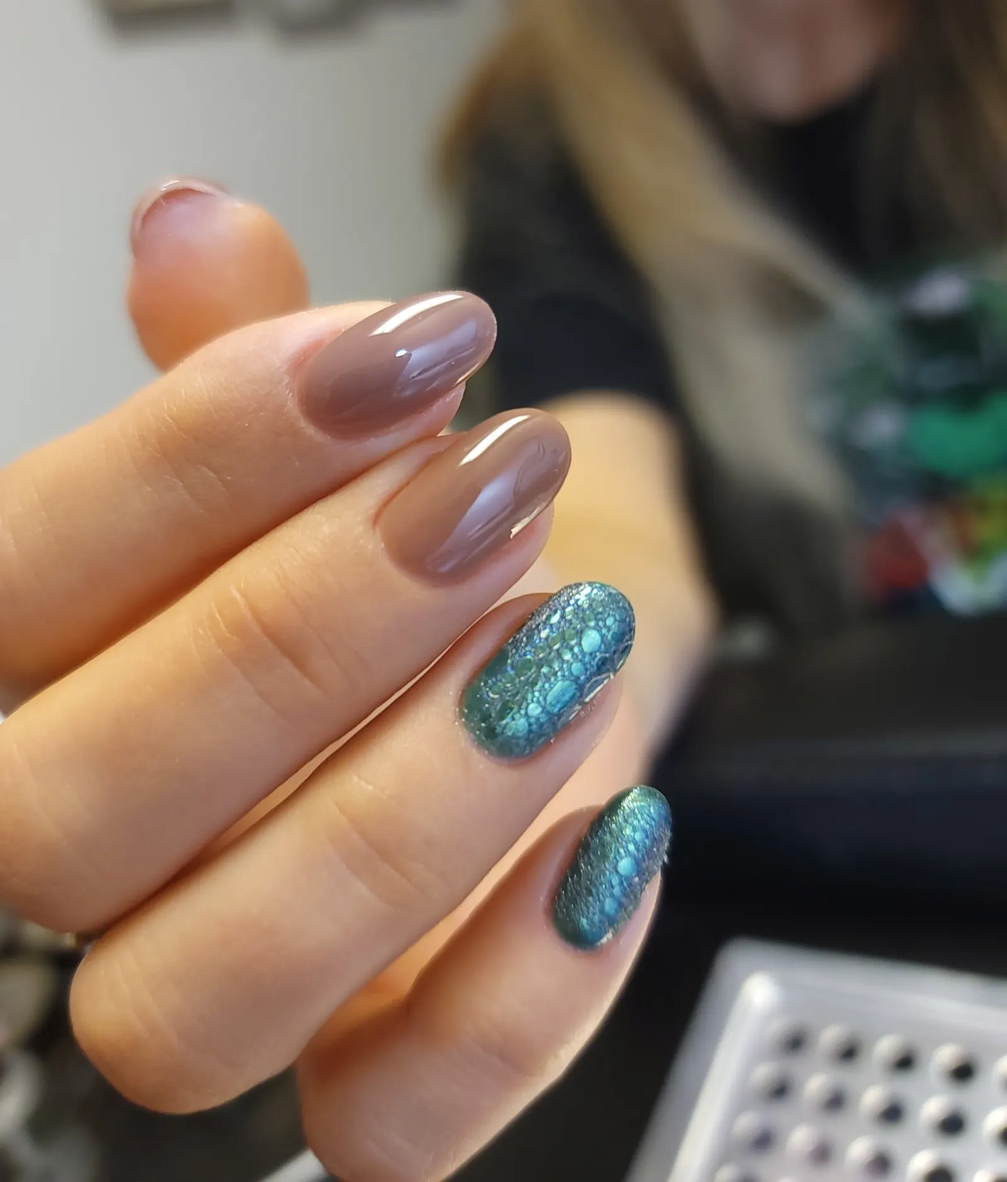
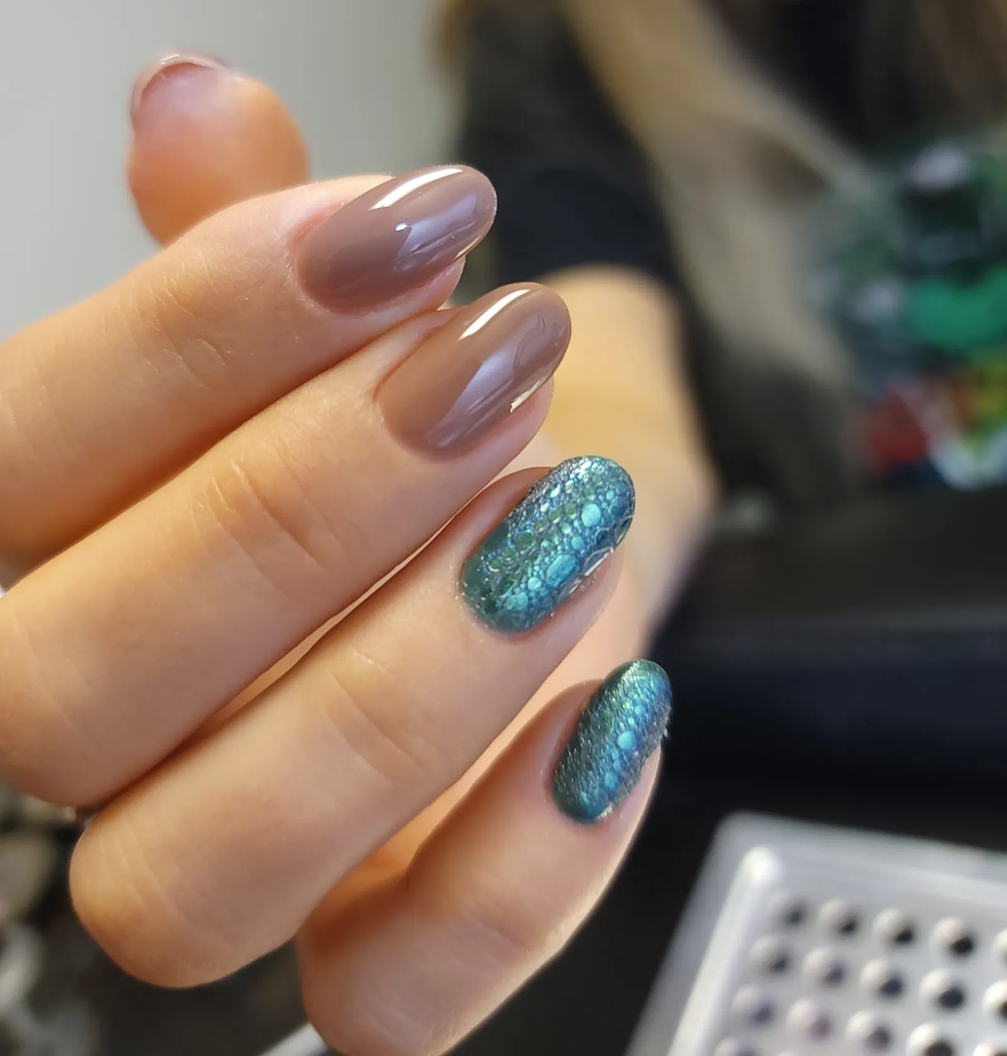
fix(preview): walk-in audit pass (Edit's, Relax Day, Paradise)

diff --git a/public/preview/edits-nails/index.html b/public/preview/edits-nails/index.html
@@ -260,7 +260,7 @@ footer{background:var(--porcelain);color:var(--muted);font-size:14px;text-align:
 <div class="pv" role="note">This is a private preview Saltwater Studio built for Edit's Nails LLC. It isn't public and Google can't see it. Questions go to Travis, a real person in Destin: <a class="nw" href="tel:+18502185855">(850) 218-5855</a></div>
 
 <header class="cover" id="top">
-  <div class="cover-img"><img id="heroImg" src="/preview/edits-nails/img/hero-800.webp" srcset="/preview/edits-nails/img/hero-800.webp 800w, /preview/edits-nails/img/hero-1600.webp 1080w" sizes="(min-width:900px) 46vw, 100vw" width="1080" height="1920" alt="Close-up of glossy pink almond nails, two of them with fine dark line art" fetchpriority="high"></div>
+  <div class="cover-img"><img id="heroImg" src="/preview/edits-nails/img/hero-800.webp" srcset="/preview/edits-nails/img/hero-800.webp 800w, /preview/edits-nails/img/hero-1600.webp 1080w" sizes="(min-width:900px) 46vw, 100vw" width="1080" height="1920" alt="Close-up of glossy pink almond nails, a few of them with fine dark line art" fetchpriority="high"></div>
   <div class="mast">
     <div class="mrow"><span>Nail salon</span><span>Harbor Blvd, Destin</span></div>
     <h1 aria-label="Edit's Nails, Destin"><span class="word" id="word" aria-hidden="true">Edit’s</span><span class="sub" aria-hidden="true"><span>Nails</span><b>Palmetto Plaza</b></span></h1>
@@ -275,7 +275,7 @@ footer{background:var(--porcelain);color:var(--muted);font-size:14px;text-align:
     <a class="addr" href="https://www.google.com/maps/dir/?api=1&amp;destination=Edit%27s%20Nails%20LLC%2C%20127%20Harbor%20Blvd%20%2312A%2C%20Destin%2C%20FL%2032541"><u>127 Harbor Blvd #12A</u> · Palmetto Plaza</a>
     <div class="ctas">
       <a class="btn b-pink" href="tel:+18505987560"><svg viewBox="0 0 24 24" fill="currentColor" aria-hidden="true"><path d="M6.6 10.8a15.1 15.1 0 0 0 6.6 6.6l2.2-2.2c.3-.3.7-.4 1-.2 1.1.4 2.3.6 3.6.6.6 0 1 .4 1 1V20c0 .6-.4 1-1 1A17 17 0 0 1 3 4c0-.6.4-1 1-1h3.5c.6 0 1 .4 1 1 0 1.3.2 2.5.6 3.6.1.3 0 .7-.2 1z"/></svg>Call <span class="nw">(850) 598-7560</span></a>
-      <a class="btn b-ghost" id="heroSms" href="sms:+18505987560&amp;body=Hi%20Edit%2C%20I%27d%20like%20to%20book%20a%20set.%20What%20do%20you%20have%20open%3F">Text</a>
+      <a class="btn b-ghost" id="heroSms" href="sms:+18505987560&amp;body=Hi%20Edit%2C%20I%27d%20like%20to%20book%20an%20appointment.%20What%20do%20you%20have%20open%3F">Text</a>
     </div>
   </div>
 </header>
@@ -292,11 +292,11 @@ footer{background:var(--porcelain);color:var(--muted);font-size:14px;text-align:
     <div class="st-top">
       <p class="eyebrow">The finish</p>
       <h2>One nail, <em>three finishes.</em></h2>
-      <p>Scroll to change the finish. Drag to turn it. The colors are sampled from Edit's own photos.</p>
+      <p>Gloss, shimmer and glitter, in colors sampled from Edit's own photos. Scroll to change the finish, drag to turn it.</p>
     </div>
     <div class="st-bot">
       <div class="fin" role="group" aria-label="Finish">
-        <button type="button" data-f="0" class="on">Cream</button><button type="button" data-f="1">Chrome</button><button type="button" data-f="2">Cat-eye</button>
+        <button type="button" data-f="0" class="on">Gloss</button><button type="button" data-f="1">Shimmer</button><button type="button" data-f="2">Glitter</button>
       </div>
       <div class="track"><i id="trk"></i></div>
       <div class="sw" role="group" aria-label="Color, from Edit's photos">
@@ -321,19 +321,19 @@ footer{background:var(--porcelain);color:var(--muted);font-size:14px;text-align:
       </div>
       <div class="tile rv"><p class="k">Open</p><h3>Mon–Fri</h3><p><span class="nw">8:30 AM–7 PM</span>. Closed weekends.</p></div>
       <div class="tile rv"><p class="k">Lasts</p><h3>3–4 weeks</h3><p>How long one client says her nails hold up.</p></div>
-      <div class="tile wide rv"><p class="k">Who you'll see</p><h3>Ask for Edit.</h3><p>Her name is on the door, in the reviews, and on the Florida filing for Edit's Nails LLC since 2019.</p></div>
+      <div class="tile wide rv"><p class="k">Who to ask for</p><h3>Ask for Edit.</h3><p>It's her name on the salon, in the reviews, and on the Florida filing for Edit's Nails LLC since 2019.</p></div>
       <div class="tile wide rv"><p class="k">What her reviews keep mentioning</p><div class="tags"><span>Quality products</span><span>Cleanliness</span><span>Manicures</span><span>Attention to detail</span></div></div>
     </div>
   </div>
 </section>
 
 <section class="sec" id="work" style="padding-bottom:64px">
-  <div class="wrap"><p class="eyebrow rv" style="color:var(--pinkd)">Her work</p><h2 class="rv">Straight from <em>her camera.</em></h2></div>
+  <div class="wrap"><p class="eyebrow rv" style="color:var(--pinkd)">Her work</p><h2 class="rv">Straight from <em>her photos.</em></h2></div>
   <div class="row" tabindex="0" aria-label="Photos of Edit's nail work">
     <figure class="card"><div class="ph"><img src="/preview/edits-nails/img/burgundy-800.webp" srcset="/preview/edits-nails/img/burgundy-800.webp 800w, /preview/edits-nails/img/burgundy-1600.webp 1600w" sizes="(min-width:900px) 340px, 74vw" width="1800" height="2400" loading="lazy" alt="Long almond nails in a deep burgundy gloss"></div><figcaption><b>Burgundy gloss</b>Long almond, one deep color.</figcaption></figure>
     <figure class="card"><div class="ph"><img src="/preview/edits-nails/img/swirl-800.webp" srcset="/preview/edits-nails/img/swirl-800.webp 800w, /preview/edits-nails/img/swirl-1600.webp 1600w" sizes="(min-width:900px) 340px, 74vw" width="1800" height="2400" loading="lazy" alt="Nude nails with brown and white swirl lines, hand resting over a metal table grate"></div><figcaption><b>Swirl lines</b>Brown and white over a nude base.</figcaption></figure>
-    <figure class="card"><div class="ph"><img src="/preview/edits-nails/img/glitter-800.webp" srcset="/preview/edits-nails/img/glitter-800.webp 800w, /preview/edits-nails/img/glitter-1600.webp 1600w" sizes="(min-width:900px) 340px, 74vw" width="1800" height="2112" loading="lazy" alt="Mauve gloss nails with two teal glitter accent nails"></div><figcaption><b>Teal glitter</b>Two accent nails beside mauve gloss.</figcaption></figure>
-    <figure class="card"><div class="ph"><img src="/preview/edits-nails/img/shimmer-800.webp" srcset="/preview/edits-nails/img/shimmer-800.webp 800w, /preview/edits-nails/img/shimmer-1600.webp 1600w" sizes="(min-width:900px) 340px, 74vw" width="2400" height="2400" loading="lazy" alt="Almond nails with a sheer nude-to-lavender shimmer fade"></div><figcaption><b>Lavender shimmer</b>A sheer fade toward the tips.</figcaption></figure>
+    <figure class="card"><div class="ph"><img src="/preview/edits-nails/img/glitter-800.webp" srcset="/preview/edits-nails/img/glitter-800.webp 800w, /preview/edits-nails/img/glitter-1600.webp 1600w" sizes="(min-width:900px) 340px, 74vw" width="1800" height="1887" loading="lazy" alt="Mauve gloss nails with two sparkly, textured teal accent nails"></div><figcaption><b>Teal accents</b>Two sparkly teal nails beside mauve gloss.</figcaption></figure>
+    <figure class="card"><div class="ph"><img src="/preview/edits-nails/img/shimmer-800.webp" srcset="/preview/edits-nails/img/shimmer-800.webp 800w, /preview/edits-nails/img/shimmer-1600.webp 1600w" sizes="(min-width:900px) 340px, 74vw" width="2400" height="2400" loading="lazy" alt="Oval nails with a sheer nude-to-lavender shimmer fade"></div><figcaption><b>Lavender shimmer</b>A sheer fade toward the tips.</figcaption></figure>
     <figure class="card"><div class="ph"><img src="/preview/edits-nails/img/foil-800.webp" srcset="/preview/edits-nails/img/foil-800.webp 800w, /preview/edits-nails/img/foil-1600.webp 1600w" sizes="(min-width:900px) 340px, 74vw" width="1800" height="2400" loading="lazy" alt="Sheer nails with a green and gold design and thin gold lines"></div><figcaption><b>Green and gold</b>Design work with fine gold lines.</figcaption></figure>
   </div>
   <p class="hint">Swipe for more</p>
@@ -375,9 +375,9 @@ footer{background:var(--porcelain);color:var(--muted);font-size:14px;text-align:
 
 <section class="sec" id="book">
   <div class="wrap">
-    <p class="eyebrow rv" style="color:var(--pinkd)">Book a set</p>
+    <p class="eyebrow rv" style="color:var(--pinkd)">Book a visit</p>
     <h2 class="rv">Tell Edit <em>what you want.</em></h2>
-    <p class="rv" style="color:var(--muted);margin-top:12px;max-width:40ch">Tap your picks. We write the text, you hit send. She answers from the salon.</p>
+    <p class="rv" style="color:var(--muted);margin-top:12px;max-width:40ch">Tap your picks and the text writes itself. You hit send.</p>
     <form class="comp" id="comp" onsubmit="return false">
       <fieldset class="grp"><legend>Service</legend><div class="opts" data-g="svc"></div></fieldset>
       <fieldset class="grp" id="gShape"><legend>Shape</legend><div class="opts" data-g="shape"></div></fieldset>
@@ -469,10 +469,10 @@ $$('.rv').forEach(el=>io.observe(el));
 new IntersectionObserver(([e])=>$('#dock').classList.toggle('on',!e.isIntersecting),{threshold:0}).observe($('.ctas'));
 
 /* composer */
-const OPT={svc:[['mani','Manicure'],['pedi','Pedicure'],['both','Mani + pedi'],['art','Nail art set'],['grow','Grow out my nails']],
+const OPT={svc:[['mani','Manicure'],['pedi','Pedicure'],['both','Mani + pedi'],['art','Nail art / design'],['grow','Grow out my nails']],
  shape:[['almond','Almond'],['oval','Oval'],['round','Round'],['square','Square'],['any','Not sure']],
  len:[['short','Short'],['medium','Medium'],['long','Long']],
- fin:[['gloss','Glossy'],['chrome','Chrome'],['cat','Cat-eye'],['matte','Matte'],['pick','Edit picks']]};
+ fin:[['gloss','Glossy'],['matte','Matte'],['shimmer','Shimmer'],['glitter','Glitter accents'],['pick','Edit picks']]};
 const MON=['Jan','Feb','Mar','Apr','May','Jun','Jul','Aug','Sep','Oct','Nov','Dec'];
 (function days(){const n=now(),out=[];const base=Date.UTC(n.y,n.m-1,n.day);
  for(let i=0;out.length<4&&i<10;i++){const dt=new Date(base+i*864e5),d=dt.getUTCDay(),h=CFG.hours[d];if(!h)continue;if(i===0&&n.h>=h[1]-1)continue;
@@ -481,7 +481,7 @@ const MON=['Jan','Feb','Mar','Apr','May','Jun','Jul','Aug','Sep','Oct','Nov','De
 const sel={svc:'mani',shape:'almond',len:'medium',fin:'gloss',day:OPT.day[0][0]};
 $$('.opts').forEach(box=>{const g=box.dataset.g;box.innerHTML=OPT[g].map(([v,l],i)=>`<input type="radio" name="${g}" id="${g}${i}" value="${v}"${sel[g]===v?' checked':''}><label for="${g}${i}">${l}</label>`).join('');
  box.addEventListener('change',e=>{sel[g]=e.target.value;compose()})});
-const FINC={gloss:['#F0B9D7','#D185B2','#8E4870'],chrome:['#F4EEF2','#B69CAC','#5E4A57'],cat:['#173B42','#9FE3E6','#1D4D55'],matte:['#8A1A33','#7E132A','#6A0F23'],pick:['#F0B9D7','#D185B2','#8E4870']};
+const FINC={gloss:['#F0B9D7','#D185B2','#8E4870'],shimmer:['#F3E3EE','#B69CAC','#7D6A86'],glitter:['#9FD3D8','#65A1AA','#2C5E66'],matte:['#8A1A33','#7E132A','#6A0F23'],pick:['#F0B9D7','#D185B2','#8E4870']};
 function nailPath(shape,len){const L={short:62,medium:86,long:112}[len],x0=12,x1=68,w=56,cx=40,yb=168,yt=yb-L;let ys,tip;
  if(shape==='square'){ys=yt+7;tip=`Q${x1} ${yt} ${x1-7} ${yt} L${x0+7} ${yt} Q${x0} ${yt} ${x0} ${ys}`}
  else if(shape==='round'){ys=yt+w/2;tip=`A${w/2} ${w/2} 0 0 0 ${x0} ${ys}`}
@@ -489,13 +489,13 @@ function nailPath(shape,len){const L={short:62,medium:86,long:112}[len],x0=12,x1
  else{ys=yt+L*.5;tip=`C${x1} ${yt+L*.2} ${cx+w*.14} ${yt} ${cx} ${yt} C${cx-w*.14} ${yt} ${x0} ${yt+L*.2} ${x0} ${ys}`}
  return{d:`M${x0} ${yb-16} Q${x0} ${yb+4} ${cx} ${yb+4} Q${x1} ${yb+4} ${x1} ${yb-16} L${x1} ${ys} ${tip} Z`,h:`M26 ${yb-14} Q24 ${yt+L*.45} 32 ${yt+12}`}}
 function compose(){const nails=!['pedi'].includes(sel.svc);['#gShape','#gLen','#gFin'].forEach(s=>$(s).classList.toggle('off',!nails));
- const svc={mani:'book a manicure',pedi:'book a pedicure',both:'book a manicure and pedicure',art:'book a nail art set',grow:'start growing out my natural nails with you'}[sel.svc];
+ const svc={mani:'book a manicure',pedi:'book a pedicure',both:'book a manicure and pedicure',art:'book a manicure with nail art',grow:'start growing out my natural nails with you'}[sel.svc];
  let bits=[];if(nails){if(sel.shape!=='any')bits.push(sel.shape+' shape');bits.push(sel.len+' length');
-  bits.push({gloss:'a glossy finish',chrome:'a chrome finish',cat:'a cat-eye finish',matte:'a matte finish',pick:'and you pick the finish'}[sel.fin])}
+  bits.push({gloss:'a glossy finish',shimmer:'a shimmer finish',glitter:'glitter accents',matte:'a matte finish',pick:'and I\'ll let you pick the finish'}[sel.fin])}
  let m=`Hi Edit, I'd like to ${svc}`+(bits.length?(sel.fin==='pick'?': '+bits.slice(0,-1).join(', ')+(bits.length>1?', ':'')+bits[bits.length-1]:': '+bits.join(', ')):'')+'. ';
- if(sel.day==='any')m+='What do you have open this week?';else if(sel.day==='today')m+='Do you have anything open today?';else m+=`Do you have time ${sel.day}?`;
+ if(sel.day==='any')m+='What do you have open in the next few days?';else if(sel.day==='today')m+='Do you have anything open today?';else m+=`Do you have time ${sel.day}?`;
  m+=' Thank you!';$('#msg').textContent=m;$('#smsGo').href='sms:'+CFG.sms+'&body='+encodeURIComponent(m);
- const p=nailPath(nails?sel.shape==='any'?'oval':sel.shape:'round',nails?sel.len:'short');$('#np').setAttribute('d',p.d);$('#nh').setAttribute('d',sel.fin==='matte'&&nails?'':p.h);$('#nh').setAttribute('opacity',sel.fin==='chrome'?.85:.5);
+ const p=nailPath(nails?sel.shape==='any'?'oval':sel.shape:'round',nails?sel.len:'short');$('#np').setAttribute('d',p.d);$('#nh').setAttribute('d',sel.fin==='matte'&&nails?'':p.h);$('#nh').setAttribute('opacity',sel.fin==='shimmer'?.85:.5);
  const c=FINC[nails?sel.fin:'gloss'];['#ng1','#ng2','#ng3'].forEach((s,i)=>$(s).setAttribute('stop-color',c[i]));
  window.dispatchEvent(new CustomEvent('finpick',{detail:sel.fin}))}
 compose();
@@ -506,7 +506,7 @@ compose();
 const $=s=>document.querySelector(s),$$=s=>[...document.querySelectorAll(s)];
 const root=document.documentElement,stage=$('#stage'),sec=$('#finish'),canvas=$('#gl');
 const COLORS=['#D185B2','#7E132A','#B69CAC','#65A1AA'];
-const SRC=[['hero-800.webp','line-art set',1422],['burgundy-800.webp','burgundy set',1067],['shimmer-800.webp','shimmer set',800],['glitter-800.webp','glitter set',939]];
+const SRC=[['hero-800.webp','line-art set',1422],['burgundy-800.webp','burgundy set',1067],['shimmer-800.webp','shimmer set',800],['glitter-800.webp','glitter set',839]];
 const STAGEC=[0,2,3];
 let F=0,fTarget=0,pick=-1;
 const RM=matchMedia('(prefers-reduced-motion: reduce)').matches;
@@ -515,7 +515,7 @@ function setUI(f){const k=Math.round(f);$$('.fin button').forEach((b,i)=>b.class
  const ci=pick>=0?pick:STAGEC[k];$$('.sw button').forEach((b,i)=>b.classList.toggle('on',i===ci));
  const s=SRC[ci],im=$('#srcImg');if(!im.src.endsWith(s[0])){im.src='/preview/edits-nails/img/'+s[0];im.height=s[2]}$('#srcTxt').innerHTML='Sampled from<br>the '+s[1];}
 function poster(f){const ci=pick>=0?pick:STAGEC[Math.round(f)];const base=COLORS[ci];const k=Math.round(f);
- const g=k===0?['#fff8',base,base]:k===1?['#F7F2F5',base,'#3B2C35']:['#0E2A30',base,'#0E2A30'];
+ const g=k===0?['#fff8',base,base]:k===1?['#F3E6F0',base,'#7D6A86']:['#9FD3D8',base,'#2C5E66'];
  $('#pg1').setAttribute('stop-color',g[0]);$('#pg2').setAttribute('stop-color',g[1]);$('#pg3').setAttribute('stop-color',g[2]);}
 function progress(){if(RM)return fTarget;const r=sec.getBoundingClientRect(),span=r.height-innerHeight;return Math.max(0,Math.min(1,-r.top/span))*2}
 $$('.fin button').forEach(b=>b.addEventListener('click',()=>{const f=+b.dataset.f;
@@ -538,7 +538,7 @@ async function init(){
  renderer.toneMapping=THREE.ACESFilmicToneMapping;renderer.toneMappingExposure=1.05;renderer.outputColorSpace=THREE.SRGBColorSpace;
  const scene=new THREE.Scene(),cam=new THREE.PerspectiveCamera(28,1,.1,50);cam.position.set(0,0,6.4);
 
- /* studio environment for chrome reflections */
+ /* studio environment for reflections */
  const env=new THREE.Scene();
  const sky=new THREE.Mesh(new THREE.SphereGeometry(10,32,16),new THREE.ShaderMaterial({side:THREE.BackSide,depthWrite:false,
   vertexShader:'varying vec3 p;void main(){p=normalize(position);gl_Position=projectionMatrix*modelViewMatrix*vec4(position,1.);}',
@@ -564,8 +564,8 @@ async function init(){
   sh.fragmentShader=sh.fragmentShader.replace('#include <common>','#include <common>\nvarying vec3 vL;uniform float uCat,uBand,uTime;uniform vec3 uBandC;float hs(vec2 p){return fract(sin(dot(p,vec2(127.1,311.7)))*43758.5453);}')
    .replace('#include <emissivemap_fragment>',`#include <emissivemap_fragment>
    float bx=vL.x-uBand-.18*(vL.y);float band=exp(-pow(bx/.05,2.))+.18*exp(-pow(bx/.13,2.));
-   vec2 g=floor(vL.xy*190.);float sp=step(.975,hs(g))*(.5+.5*sin(uTime*3.+hs(g+3.)*40.));
-   totalEmissiveRadiance+=uCat*(uBandC*band*2.1+vec3(1.,.95,1.)*sp*.9*(.25+band));`)};
+   vec2 g=floor(vL.xy*190.);float sp=step(.93,hs(g))*(.5+.5*sin(uTime*3.+hs(g+3.)*40.));
+   totalEmissiveRadiance+=uCat*(uBandC*band*.3+vec3(1.,.97,1.)*sp*1.1*(.45+band));`)};
  const nail=new THREE.Mesh(geo,mat);
  const grp=new THREE.Group();grp.add(nail);scene.add(grp);
  const dl=new THREE.DirectionalLight(0xffffff,1.2);dl.position.set(2,3,4);scene.add(dl);
@@ -581,7 +581,7 @@ async function init(){
  addEventListener('pointerup',()=>{drag=false;canvas.style.cursor='grab'});addEventListener('pointercancel',()=>{drag=false});
 
  const cA=new THREE.Color(),cB=new THREE.Color(),cur=new THREE.Color(COLORS[0]),tmp=new THREE.Color();
- const SC=[new THREE.Color(COLORS[0]),new THREE.Color(COLORS[2]),new THREE.Color('#0E3238')];
+ const SC=[new THREE.Color(COLORS[0]),new THREE.Color(COLORS[2]),new THREE.Color('#3E7F88')];
  let run=true,vis=true,last=performance.now(),slow=0,t=0;
  new IntersectionObserver(([e])=>{vis=e.isIntersecting;if(vis&&!raf)loop()},{threshold:0}).observe(stage);
  document.addEventListener('visibilitychange',()=>{run=!document.hidden;if(run&&!raf)loop()});
@@ -595,7 +595,7 @@ async function init(){
   if(pick>=0){cA.set(COLORS[pick]);if(b>0){tmp.copy(cA).multiplyScalar(.45);cA.lerp(tmp,b)}}
   else{cA.copy(SC[0]).lerp(SC[1],a);if(b>0)cA.lerp(SC[2],b)}
   cur.lerp(cA,Math.min(1,dt*5));mat.color.copy(cur);
-  mat.metalness=a*(1-b*.7);mat.roughness=.3-.2*a+.1*b;mat.iridescence=.35*a*(1-b);mat.envMapIntensity=1.25-1.0*b;mat.clearcoat=1-.55*b;
+  mat.metalness=.3*a*(1-b*.5);mat.roughness=.3-.1*a+.05*b;mat.iridescence=.7*a*(1-b*.6);mat.envMapIntensity=1.25-.5*b;mat.clearcoat=1-.2*b;
   U.uCat.value=b;U.uTime.value=t;
   if(!drag){vel*=.94;rotY+=vel;rotY+=(-.3+Math.sin(t*.5)*.4-rotY)*.012}
   U.uBand.value=Math.sin(t*.9+bandT)*.38;

diff --git a/public/preview/paradise-nail-spa/index.html b/public/preview/paradise-nail-spa/index.html
@@ -51,7 +51,7 @@ html.ready #loader{opacity:0;visibility:hidden}
 .hero{position:relative;padding:14px 0 30px;overflow:clip}
 .hero::before{content:"";position:absolute;width:150vw;height:120vw;max-width:1400px;max-height:1100px;left:50%;top:-30vw;translate:-50% 0;background:radial-gradient(closest-side,rgba(255,106,85,.22),transparent 70%),radial-gradient(closest-side at 70% 80%,rgba(15,158,155,.18),transparent 70%);pointer-events:none}
 .hgrid{position:relative;display:grid;gap:16px}
-.arch{position:relative;border-radius:999px 999px var(--r) var(--r);overflow:hidden;height:clamp(280px,40svh,400px);background:var(--plum);box-shadow:0 30px 60px -30px rgba(34,21,46,.55)}
+.arch{position:relative;border-radius:999px 999px var(--r) var(--r);overflow:hidden;height:clamp(260px,36svh,380px);background:var(--plum);box-shadow:0 30px 60px -30px rgba(34,21,46,.55)}
 .arch img{width:100%;height:100%;object-fit:cover;object-position:50% 62%;transform:scale(1.08);transition:transform 1.6s var(--ease)}
 html.ready .arch img{transform:none}
 .arch::after{content:"";position:absolute;inset:0;background:linear-gradient(180deg,transparent 40%,rgba(34,21,46,.25) 62%,rgba(34,21,46,.82) 100%)}
@@ -153,7 +153,7 @@ html.ready .mega .ch{transform:none}
 .q{margin:22px 0 0}
 .q b{display:block;font:800 .75rem/1 var(--body);letter-spacing:.16em;text-transform:uppercase;color:#c9b8c8;margin-bottom:10px}
 .opts{display:flex;flex-wrap:wrap;gap:8px}
-.opt{min-height:44px;padding:9px 15px;border-radius:999px;border:1.5px solid rgba(251,243,234,.3);background:transparent;color:var(--sand);font:700 .95rem/1.1 var(--body);cursor:pointer;transition:background .2s,border-color .2s,color .2s}
+.opt{-webkit-tap-highlight-color:transparent;-webkit-user-select:none;user-select:none;min-height:44px;padding:9px 15px;border-radius:999px;border:1.5px solid rgba(251,243,234,.3);background:transparent;color:var(--sand);font:700 .95rem/1.1 var(--body);cursor:pointer;transition:background .2s,border-color .2s,color .2s}
 .opt[aria-pressed=true]{background:var(--sand);color:var(--ink);border-color:var(--sand)}
 .script{margin:26px 0 0;padding:20px;border-radius:20px;background:rgba(251,243,234,.07);border:1px solid rgba(251,243,234,.16)}
 .script small{display:block;font:800 .72rem/1 var(--body);letter-spacing:.16em;text-transform:uppercase;color:#7fe3dc;margin-bottom:10px}
@@ -271,7 +271,7 @@ footer{padding:26px 16px calc(110px + env(safe-area-inset-bottom));text-align:ce
     <p class="lead rv" style="margin-top:14px">&ldquo;A clean, friendly and relaxing nail salon experience,&rdquo; in one Google reviewer&rsquo;s words.</p>
     <div class="bento">
       <div class="tile t-rate rv"><div><span class="big">4.8</span><p>average across 407 Google reviews</p></div><span class="stars" aria-label="4.8 out of 5 stars">★★★★★<i style="width:96%">★★★★★</i></span></div>
-      <div class="tile t-photo rv"><img src="/preview/paradise-nail-spa/img/relax-800.webp" srcset="/preview/paradise-nail-spa/img/relax-800.webp 800w, /preview/paradise-nail-spa/img/relax-1600.webp 1600w" sizes="(max-width: 760px) 46vw, 260px" width="800" height="1067" loading="lazy" alt="Pink neon sign reading Time to Relax on a green leaf wall, with a hand showing pink nails below it"></div>
+      <div class="tile t-photo rv"><img src="/preview/paradise-nail-spa/img/relax-800.webp" srcset="/preview/paradise-nail-spa/img/relax-800.webp 800w, /preview/paradise-nail-spa/img/relax-1600.webp 1600w" sizes="(max-width: 760px) 46vw, 260px" width="800" height="1067" loading="lazy" alt="Pink neon sign reading Time to Relax on a green leaf wall, with two hands showing pink nails below it"></div>
       <div class="tile t-friend rv"><span class="big">&ldquo;friendly owners&rdquo;</span><p>a review topic Google pulls from 9 reviews</p></div>
       <div class="tile t-coral rv"><span class="big">7</span><p>days a week. Sundays 11 to 5.</p></div>
       <div class="tile t-fam rv"><q>Really enjoyed the atmosphere and the very kind family that took care of me.</q><p>Google review</p></div>
@@ -285,14 +285,14 @@ footer{padding:26px 16px calc(110px + env(safe-area-inset-bottom));text-align:ce
     <h2 id="svcH" class="rv">Pedicures first.<br>Then the fun part.</h2>
     <div class="svcs">
       <article class="svc rv"><div class="ic"><svg width="46" height="46" viewBox="0 0 48 48" fill="none" stroke="#6d2443" stroke-width="2.4" stroke-linecap="round" aria-hidden="true"><path d="M8 30c6 6 26 6 32 0"/><path d="M6 30h36"/><path d="M14 20c2-3 2-6 0-9M24 20c2-3 2-6 0-9M34 20c2-3 2-6 0-9"/></svg></div><div><h3>Pedicures</h3><p>Deluxe or tropical. Reviews of both mention the massage.</p></div></article>
-      <article class="svc rv"><img src="/preview/paradise-nail-spa/img/pink-800.webp" width="800" height="1067" loading="lazy" alt="Hot pink almond-shaped nails resting on white fur"><div><h3>Manicures</h3><p>A classic mani or builder gel. One reviewer called their builder gel manicure one of the best they&rsquo;ve gotten.</p></div></article>
-      <article class="svc rv"><img src="/preview/paradise-nail-spa/img/dots-800.webp" width="800" height="746" loading="lazy" alt="Pink nails with red polka-dot tips"><div><h3>Nail art</h3><p>Polka-dot tips, stars and stripes, a clean solid hot pink.</p></div></article>
-      <article class="svc rv"><div class="ic" style="background:linear-gradient(160deg,#c9f1ec,#5fcfc8)"><svg width="46" height="46" viewBox="0 0 48 48" fill="none" stroke="#07454f" stroke-width="2.4" aria-hidden="true"><circle cx="16" cy="18" r="6"/><circle cx="32" cy="18" r="6"/><circle cx="24" cy="31" r="6"/></svg></div><div><h3>Help picking the color</h3><p>One guest came in after an exact peachy shade and got help finding it. Ask for a hand choosing.</p></div></article>
+      <article class="svc rv"><img src="/preview/paradise-nail-spa/img/pink-800.webp" width="800" height="1067" loading="lazy" alt="Hot pink almond-shaped nails resting on white fur"><div><h3>Manicures</h3><p>A classic mani or builder gel. From a Google review: &ldquo;My builder gel manicure is one of the best I&rsquo;ve ever gotten.&rdquo;</p></div></article>
+      <article class="svc rv"><img src="/preview/paradise-nail-spa/img/dots-800.webp" width="800" height="746" loading="lazy" alt="Sheer pink nails with red tips covered in white polka dots"><div><h3>Nail art</h3><p>Red tips with white polka dots, red-white-and-blue stripes and checks, a solid hot pink.</p></div></article>
+      <article class="svc rv"><div class="ic" style="background:linear-gradient(160deg,#c9f1ec,#5fcfc8)"><svg width="46" height="46" viewBox="0 0 48 48" fill="none" stroke="#07454f" stroke-width="2.4" aria-hidden="true"><circle cx="16" cy="18" r="6"/><circle cx="32" cy="18" r="6"/><circle cx="24" cy="31" r="6"/></svg></div><div><h3>Help picking the color</h3><p>One reviewer got help picking out &ldquo;the exact peachy color I was looking for.&rdquo; Ask for a hand choosing.</p></div></article>
     </div>
   </div>
   <div class="gal" tabindex="0" aria-label="Nail photos from Paradise Nail &amp; Spa">
-    <figure><img src="/preview/paradise-nail-spa/img/stars-800.webp" srcset="/preview/paradise-nail-spa/img/stars-800.webp 800w, /preview/paradise-nail-spa/img/stars-1600.webp 1600w" sizes="(max-width: 760px) 74vw, 300px" width="800" height="1172" loading="lazy" alt="Red, white and blue nail art with stars and stripes, held over a Paradise Nails and Spa brochure"><figcaption>Stars and stripes, over their own brochure</figcaption></figure>
-    <figure><img src="/preview/paradise-nail-spa/img/dots-800.webp" srcset="/preview/paradise-nail-spa/img/dots-800.webp 800w, /preview/paradise-nail-spa/img/dots-1600.webp 1600w" sizes="(max-width: 760px) 74vw, 300px" width="800" height="746" loading="lazy" alt="Pink nails with red polka-dot tips"><figcaption>Pink with red polka-dot tips</figcaption></figure>
+    <figure><img src="/preview/paradise-nail-spa/img/stars-800.webp" srcset="/preview/paradise-nail-spa/img/stars-800.webp 800w, /preview/paradise-nail-spa/img/stars-1600.webp 1600w" sizes="(max-width: 760px) 74vw, 300px" width="800" height="1172" loading="lazy" alt="Red, white and blue nail art with stripes, checks and white dots, held over a Paradise Nails and Spa brochure"><figcaption>Red, white and blue, over their own brochure</figcaption></figure>
+    <figure><img src="/preview/paradise-nail-spa/img/dots-800.webp" srcset="/preview/paradise-nail-spa/img/dots-800.webp 800w, /preview/paradise-nail-spa/img/dots-1600.webp 1600w" sizes="(max-width: 760px) 74vw, 300px" width="800" height="746" loading="lazy" alt="Sheer pink nails with red tips covered in white polka dots"><figcaption>Red tips, white polka dots</figcaption></figure>
     <figure><img src="/preview/paradise-nail-spa/img/pink-800.webp" srcset="/preview/paradise-nail-spa/img/pink-800.webp 800w, /preview/paradise-nail-spa/img/pink-1600.webp 1600w" sizes="(max-width: 760px) 74vw, 300px" width="800" height="1067" loading="lazy" alt="Hot pink almond-shaped nails resting on white fur"><figcaption>Hot pink, almond shape</figcaption></figure>
     <figure><img src="/preview/paradise-nail-spa/img/relax-800.webp" srcset="/preview/paradise-nail-spa/img/relax-800.webp 800w, /preview/paradise-nail-spa/img/relax-1600.webp 1600w" sizes="(max-width: 760px) 74vw, 300px" width="800" height="1067" loading="lazy" alt="Pink neon sign reading Time to Relax on a green leaf wall"><figcaption>The Time to Relax sign</figcaption></figure>
   </div>
@@ -336,7 +336,7 @@ footer{padding:26px 16px calc(110px + env(safe-area-inset-bottom));text-align:ce
       <button class="opt" type="button" data-v="wk" aria-pressed="false">This weekend</button>
     </div></div>
     <div class="script" aria-live="polite"><small>What to say when they pick up</small><p id="script">Hi! Do you have room for a deluxe pedicure later today?</p><p class="stat" id="stat"></p></div>
-    <a class="bigcall" href="tel:+18504608777" id="bigcall">Call and ask<span class="nw">(850) 460-8777</span></a>
+    <a class="bigcall" href="tel:+18504608777" id="bigcall">Call Paradise and ask<span class="nw">(850) 460-8777</span></a>
     <button class="copy" type="button" id="copy">Copy what to say</button>
   </div>
 </section>
@@ -362,7 +362,7 @@ footer{padding:26px 16px calc(110px + env(safe-area-inset-bottom));text-align:ce
 <section class="close wrap" aria-labelledby="closeH">
   <p class="kick rv" style="justify-content:center">Miramar Beach</p>
   <h2 id="closeH" class="rv">Put your feet up on US-98.</h2>
-  <p class="lead rv" style="margin:0 auto">Seven days a week in Miramar Plaza. Call ahead and ask what they have open.</p>
+  <p class="lead rv" style="margin:0 auto">Seven days a week in Miramar Plaza. Call and ask when they can fit you in.</p>
   <div class="ctas rv">
     <a class="btn call" href="tel:+18504608777"><span class="nw">(850) 460-8777</span></a>
     <a class="btn ghost" href="https://www.google.com/maps/dir/?api=1&amp;destination=Paradise%20Nail%20%26%20Spa%2C%2012889%20US-98%20%23106A%2C%20Miramar%20Beach%2C%20FL%2032550" target="_blank" rel="noopener">Directions</a>
@@ -447,10 +447,11 @@ window.bloomP = 0;
 })();
 /* service picker -> phone script -> tel: */
 (() => {
+  const grp = (n, x) => n === 'four or more' ? x + ' for four or more of us' : n + ' ' + x;
   const S = {
-    dp: [n => 'a deluxe pedicure', n => n + ' deluxe pedicures'],
-    tp: [n => 'a tropical pedicure', n => n + ' tropical pedicures'],
-    bg: [n => 'a builder gel manicure', n => n + ' builder gel manicures'],
+    dp: [n => 'a deluxe pedicure', n => grp(n, 'deluxe pedicures')],
+    tp: [n => 'a tropical pedicure', n => grp(n, 'tropical pedicures')],
+    bg: [n => 'a builder gel manicure', n => grp(n, 'builder gel manicures')],
     mp: [n => 'a manicure and pedicure', n => 'manicures and pedicures for ' + n + ' of us'],
     na: [n => 'nail art', n => 'nail art for ' + n + ' of us']
   };

diff --git a/public/preview/relax-day-nails/index.html b/public/preview/relax-day-nails/index.html
@@ -284,7 +284,7 @@ footer.site{background:var(--ink);color:#9FAAA4;font-size:.85rem;text-align:cent
   <div class="wrap">
     <p class="kick rv">The name is the plan</p>
     <h2 class="rv">Nobody books a <em>relax day</em> to be rushed.</h2>
-    <p class="lede rv">Read the Google reviews and the same words keep coming back: clean, relaxing, thorough. Vacationers, snowbirds, couples who both wanted pedicures, a mom and her three-year-old on a girls' day. It all happens in suite 212 of Fountain Plaza.</p>
+    <p class="lede rv">Read the Google reviews and two words keep coming back: clean and relaxing. Vacationers, snowbirds, couples who both wanted pedicures, a mom and her three-year-old on a girls' day. It all happens in suite 212 of Fountain Plaza.</p>
     <div class="beats">
       <div class="beat rv"><span class="n">1</span><div><h3>Walk in, or call ahead</h3><p>One reviewer walked in and was seen within a few minutes. A whole family walked in for pedicures together.</p></div></div>
       <div class="beat rv"><span class="n">2</span><div><h3>Sit back</h3><p>Manicures, pedicures, gel pedicures, dip and SNS, pink &amp; white, French, and waxing.</p></div></div>
@@ -295,7 +295,7 @@ footer.site{background:var(--ink);color:#9FAAA4;font-size:.85rem;text-align:cent
 
 <section class="proof" aria-labelledby="proof-h">
   <div class="wrap">
-    <p class="kick rv">What 265 reviews say</p>
+    <p class="kick rv">By the numbers</p>
     <h2 id="proof-h" class="rv">The numbers are <em>calm</em> too.</h2>
     <div class="bento">
       <div class="tile hero-t rv"><div><span class="stars" aria-hidden="true">★★★★★</span><div class="big">4.9</div></div><p>out of 5 on Google, from 265 reviews.</p></div>
@@ -316,7 +316,7 @@ footer.site{background:var(--ink);color:#9FAAA4;font-size:.85rem;text-align:cent
       <figure class="card wide"><div class="ph"><img src="/preview/relax-day-nails/img/copper-800.webp" srcset="/preview/relax-day-nails/img/copper-800.webp 800w, /preview/relax-day-nails/img/copper-1600.webp 1600w" sizes="(min-width:900px) 420px, 86vw" width="800" height="600" loading="lazy" alt="Long copper-orange nails with gold glitter accent nails, next to two powder jars"></div><figcaption><b>Copper and gold</b>Long and tapered, glitter on the accent nails.</figcaption></figure>
       <figure class="card"><div class="ph"><img src="/preview/relax-day-nails/img/pink-white-800.webp" srcset="/preview/relax-day-nails/img/pink-white-800.webp 800w, /preview/relax-day-nails/img/pink-white-1600.webp 1600w" sizes="(min-width:900px) 300px, 72vw" width="800" height="1067" loading="lazy" alt="Square pink and white nails, labeled Pink and white"></div><figcaption><b>Pink &amp; white</b>Squared off, clean white tips.</figcaption></figure>
       <figure class="card"><div class="ph"><img src="/preview/relax-day-nails/img/sage-800.webp" srcset="/preview/relax-day-nails/img/sage-800.webp 800w, /preview/relax-day-nails/img/sage-1600.webp 1600w" sizes="(min-width:900px) 300px, 72vw" width="800" height="1067" loading="lazy" alt="Long sage green nails resting on a dip powder jar, labeled Dip"></div><figcaption><b>Sage dip</b>Long, soft green, one jar.</figcaption></figure>
-      <figure class="card"><div class="ph"><img src="/preview/relax-day-nails/img/red-glitter-800.webp" srcset="/preview/relax-day-nails/img/red-glitter-800.webp 800w, /preview/relax-day-nails/img/red-glitter-1600.webp 1600w" sizes="(min-width:900px) 300px, 72vw" width="800" height="1067" loading="lazy" alt="Short red glitter nails on hands wearing two gold rings"></div><figcaption><b>Red glitter</b>Short, rounded, all sparkle.</figcaption></figure>
+      <figure class="card"><div class="ph"><img src="/preview/relax-day-nails/img/red-glitter-800.webp" srcset="/preview/relax-day-nails/img/red-glitter-800.webp 800w, /preview/relax-day-nails/img/red-glitter-1600.webp 1600w" sizes="(min-width:900px) 300px, 72vw" width="800" height="1067" loading="lazy" alt="Short soft-square red glitter nails on hands wearing two gold rings, labeled Dip"></div><figcaption><b>Red glitter dip</b>Short, soft square, all sparkle.</figcaption></figure>
     </div>
     <p class="swipe">Swipe for more</p>
   </div>
@@ -339,7 +339,7 @@ footer.site{background:var(--ink);color:#9FAAA4;font-size:.85rem;text-align:cent
       </div>
     </div>
     <div class="breath" aria-hidden="true"><span>Breathe in</span><span>Breathe out</span></div>
-    <p class="hint">Illustration. Your basin will be at suite 212.</p>
+    <p class="hint">An illustration, not a photo of the salon. The real basins are in suite 212.</p>
   </div>
 </section>
 
@@ -490,7 +490,7 @@ for(var i=0;i<7;i++){
   b.innerHTML=lab+'<small>'+fh(t[0]).replace(' ','')+'–'+fh(t[1]).replace(' ','')+'</small>';
   var late=i===0&&N.h>=t[1]-1;
   if(late){b.disabled=true;b.querySelector('small').textContent='done for today'}
-  b.setAttribute('aria-pressed','false');dbox.appendChild(b);dayList.push({spoken:spoken,lab:lab,wd:wd,dis:late});
+  b.setAttribute('aria-pressed','false');dbox.appendChild(b);dayList.push({spoken:spoken,i:i,nm:DAYS[wd],lab:lab,wd:wd,dis:late});
 }
 S.day=dayList[0].dis?'1':'0';
 
@@ -507,8 +507,9 @@ function sync(){
   var mani=(pl?'manicures':'a manicure')+' with '+hand;
   svc=S.what==='mani'?mani:S.what==='pedi'?pedi:mani+' and '+pedi;
   var ex=[];if(S.extra.french)ex.push(S.what==='pedi'?'French on the toes':'French tips');if(S.extra.wax)ex.push('waxing');
-  var lead=w===1?"Hi! I'd like to come in ":(w===2?"Hi! There are two of us, and we'd like to come in ":"Hi! There are three or more of us, and we'd like to come in ");
-  var line=lead+dd.spoken+' '+times[S.time]+' for '+svc+(ex.length?', plus '+ex.join(' and '):'')+'. Do you have room?';
+  var lead=w===1?"Hi! I'd like to come in ":(w===2?"Hi! There are two of us, and we'd like to come in ":"Hi! We're a group of three or more, and we'd like to come in ");
+  var when=dd.i===0?{morning:'this morning',midday:'today around midday',afternoon:'this afternoon'}[S.time]:dd.i===1?{morning:'tomorrow morning',midday:'tomorrow around midday',afternoon:'tomorrow afternoon'}[S.time]:{morning:dd.nm+' morning',midday:dd.nm+' around midday',afternoon:dd.nm+' afternoon'}[S.time];
+  var line=lead+when+' for '+svc+(ex.length?', plus '+ex.join(' and '):'')+'. Do you have room?';
   document.getElementById('script').textContent=line;
   var rows=[['Day',dd.lab+', '+times[S.time].replace('in the ','').replace('around ','')],['For',w===1?'Just me':w===2?'Two of us':'Three or more'],
     ['Booking',S.what==='mani'?'Manicure':S.what==='pedi'?'Pedicure':'Mani + pedi']];
